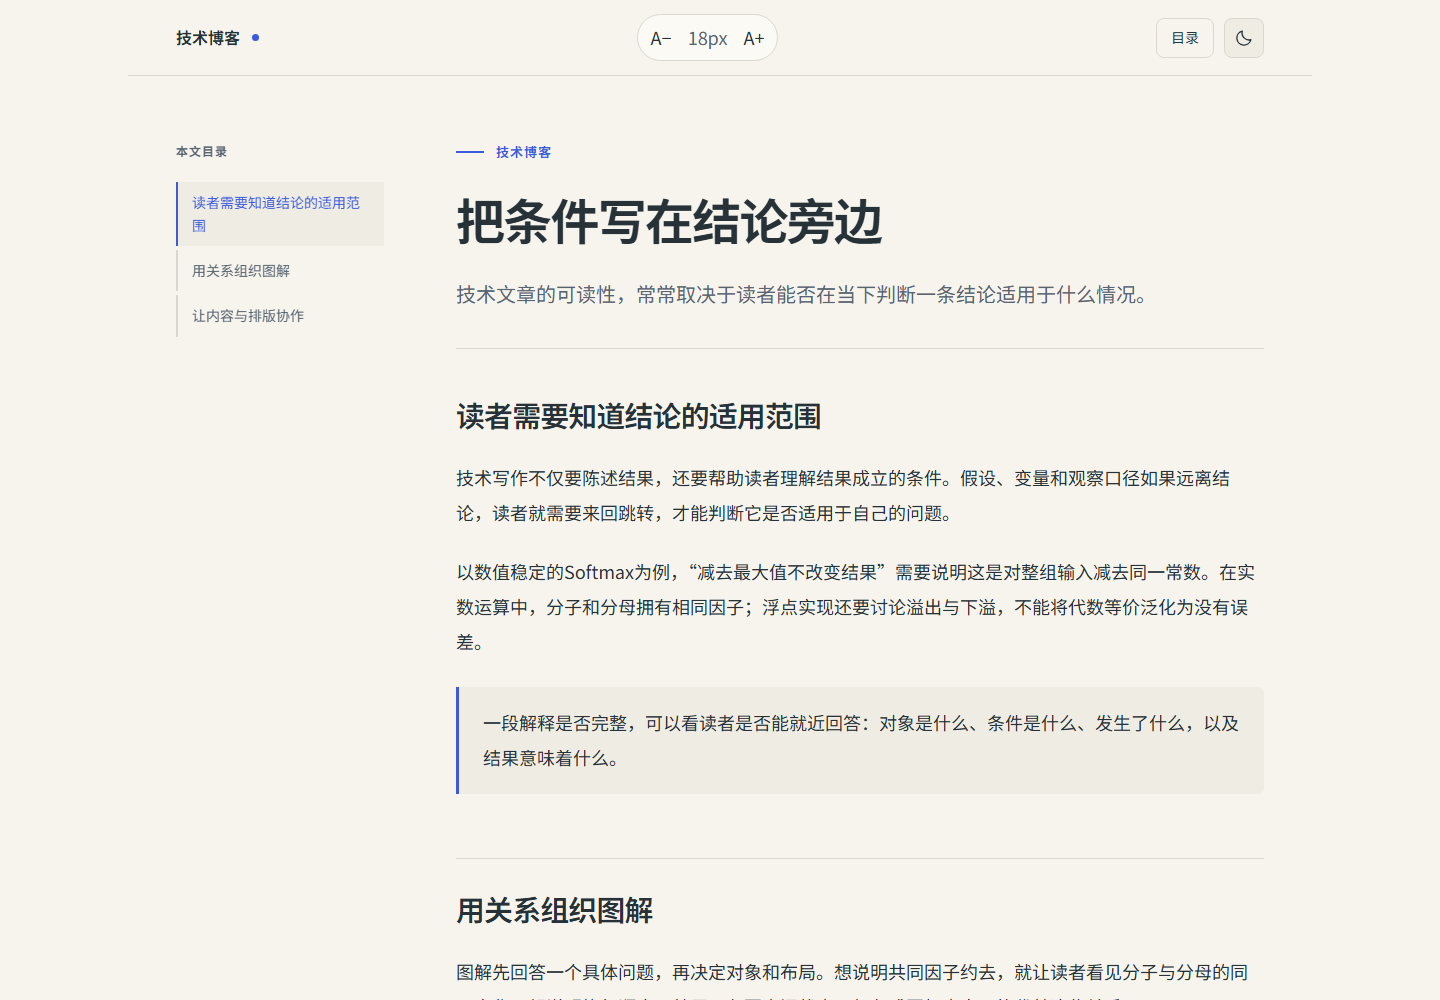
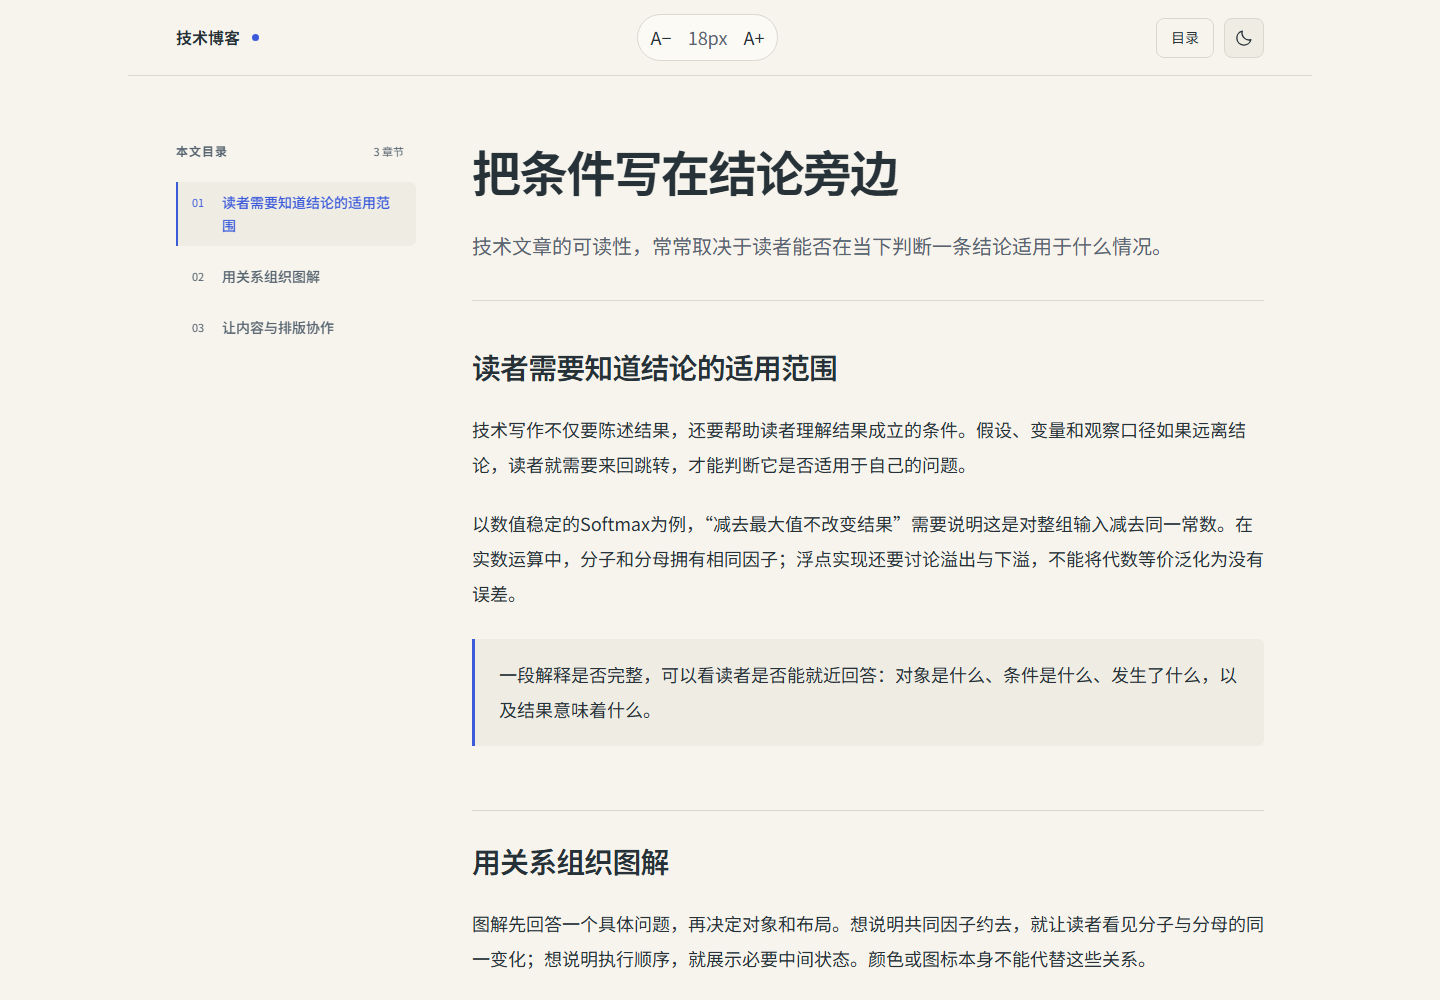
Clarify article header and concentrate long-form visual emphasis

diff --git a/assets/content/document.html b/assets/content/document.html
@@ -21,7 +21,7 @@
 <div class="document-layout">
   <aside id="toc" class="toc" aria-label="章节目录" data-export-ui><div class="toc-heading"><p class="toc-label">本文目录</p><span id="toc-count" class="toc-count"></span></div><nav id="toc-links"></nav></aside>
   <main id="content">
-    <header class="article-header"><p class="eyebrow">@@LABEL@@</p><h1>@@TITLE@@</h1>@@DESCRIPTION@@<p class="article-meta">@@META@@</p></header>
+    <header class="article-header"><h1>@@TITLE@@</h1>@@DESCRIPTION@@<p class="article-meta">@@META@@</p></header>
     <div id="resume-banner" class="resume-banner" hidden><div><span>上次读到</span><strong id="resume-title"></strong></div><button id="resume-reading">继续阅读</button><button id="dismiss-reading" aria-label="忽略上次阅读位置">忽略</button></div>
     <p id="reading-status" class="sr-only" role="status"></p>
     <article class="prose">@@BODY@@</article>

diff --git a/assets/content/content.css b/assets/content/content.css
@@ -57,8 +57,6 @@ a { color: var(--accent); text-underline-offset: 4px; }
 .toc a[aria-current="location"] .toc-index { color: var(--accent); }
 .toc a.toc-parent { color: var(--text); }
 .article-header { margin-bottom: 44px; padding: 0 0 36px; border-bottom: 1px solid var(--line); }
-.article-header .eyebrow { display: flex; align-items: center; gap: 12px; margin-bottom: 24px; }
-.article-header .eyebrow::before { content: ''; width: 28px; height: 2px; background: var(--accent); }
 .article-header h1 { font-size: clamp(38px, 3.4vw, 50px); line-height: 1.28; letter-spacing: -.035em; text-wrap: balance; margin-bottom: 24px; }
 .eyebrow { margin: 0 0 22px; color: var(--accent); font-size: 13px; font-weight: 650; letter-spacing: .08em; }
 h1 { font-size: clamp(34px, 3.2vw, 48px); line-height: 1.3; letter-spacing: -.025em; font-weight: 650; margin: 0 0 24px; }

diff --git a/references/template-design.md b/references/template-design.md
@@ -22,4 +22,6 @@
 
 新模板只用于学习/博客/汇报，避免将新阅读样式灌入原卡片；小红书继续保留academic的画幅与字体约定。
 
+长文标题区参考[AstroPaper实际文章](https://astro-paper.pages.dev/posts/astro-paper-v5/)的标题与真实元信息层级：正文不重复工具栏已有的身份标签。采用其连续阅读的组织思路，具体字号、留白和公式强调根据本项目长文实测，不照搬作者、日期或宣传组件。
+
 代码的文件名、重点行与复制操作参考[Nextra代码功能](https://nextra.site/docs/guide/syntax-highlighting)，长行可选换行借鉴[Elementor Code Highlight的Word Wrap](https://elementor.com/help/code-highlight-pro/)行为。只在出现水平溢出时提供换行入口，以控制工具栏密度；不引入相关框架或插件。
